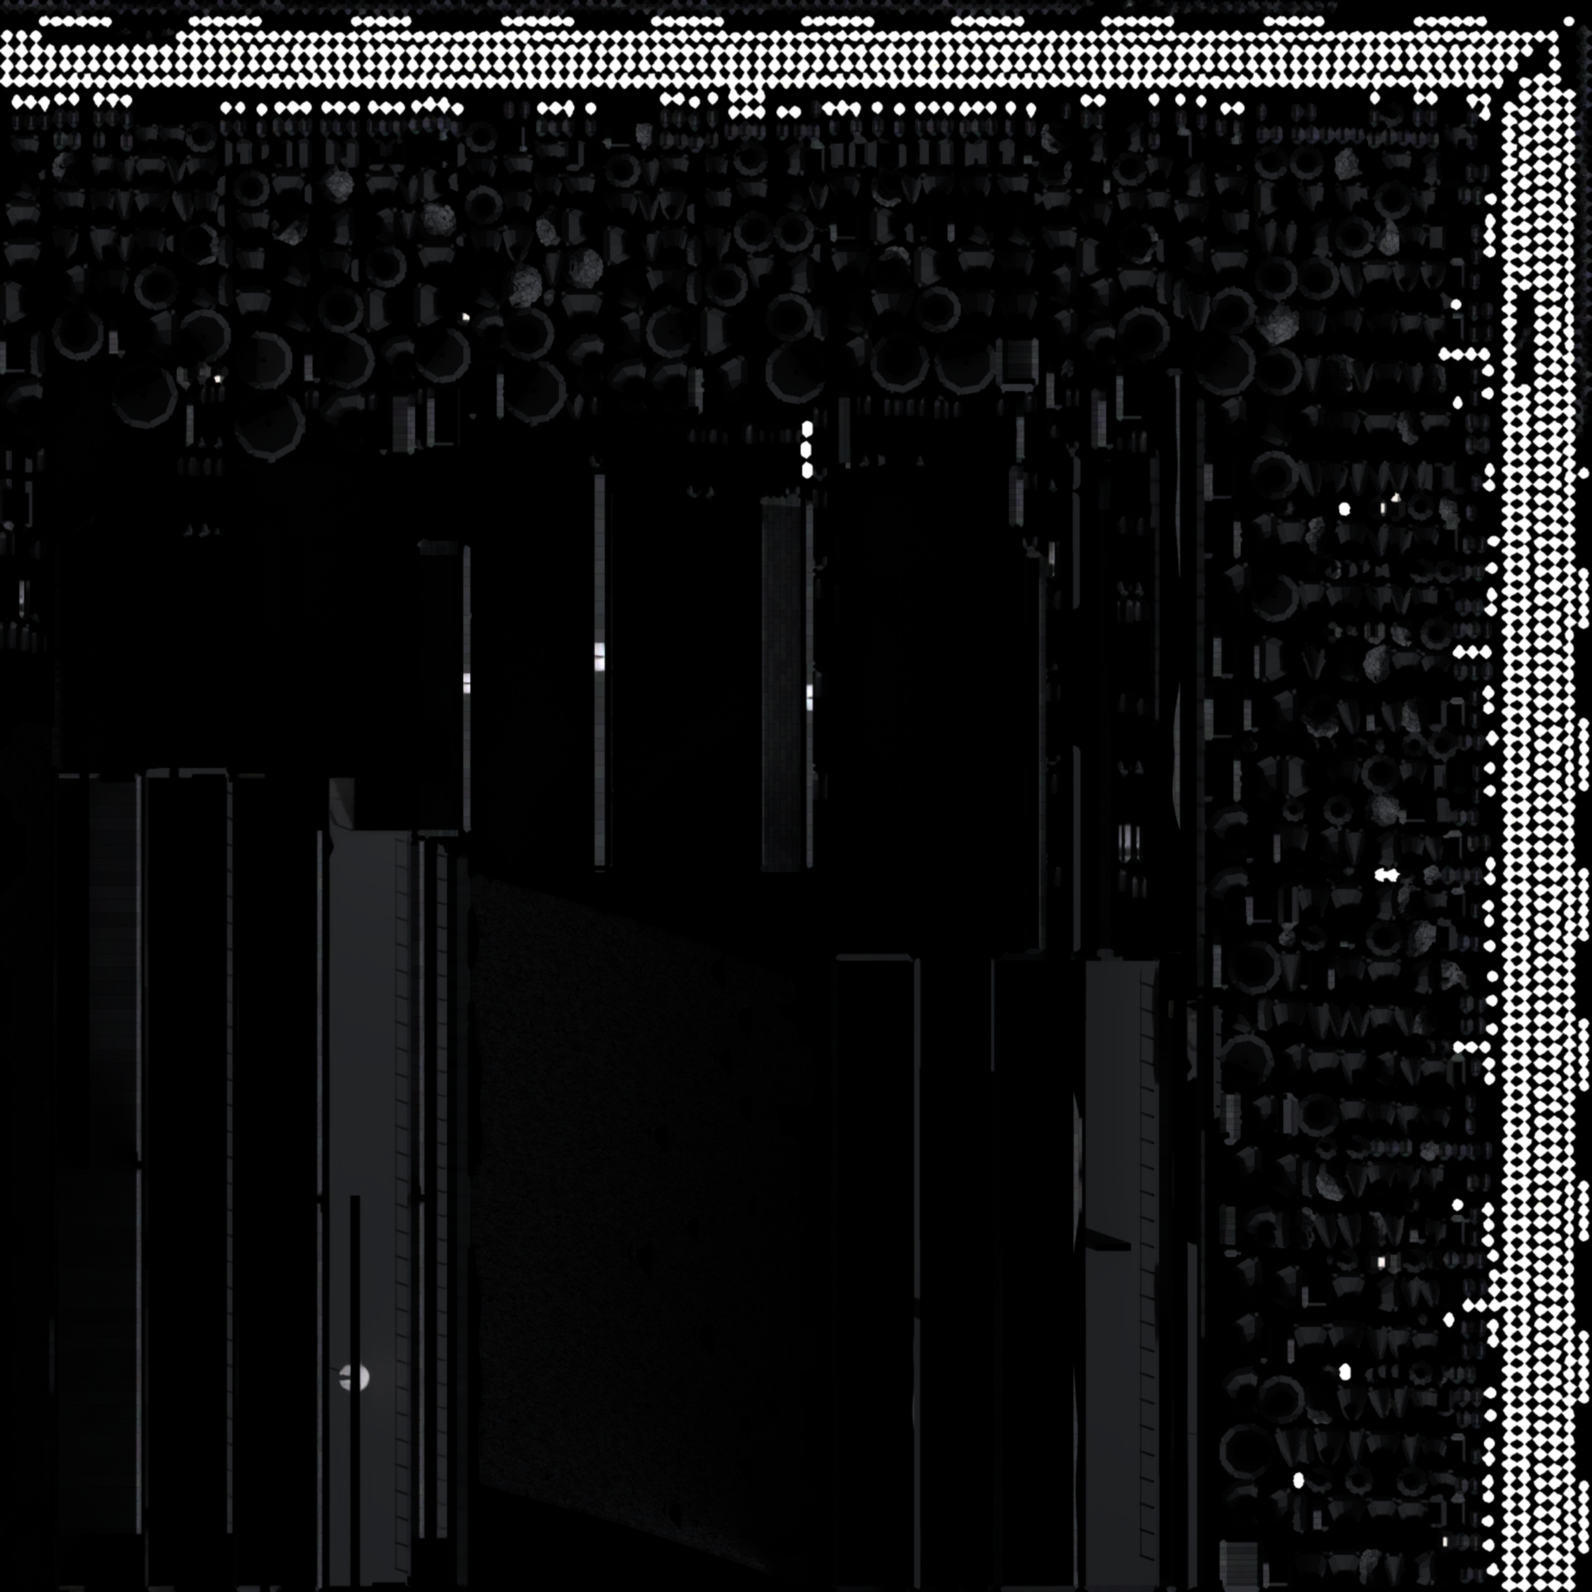
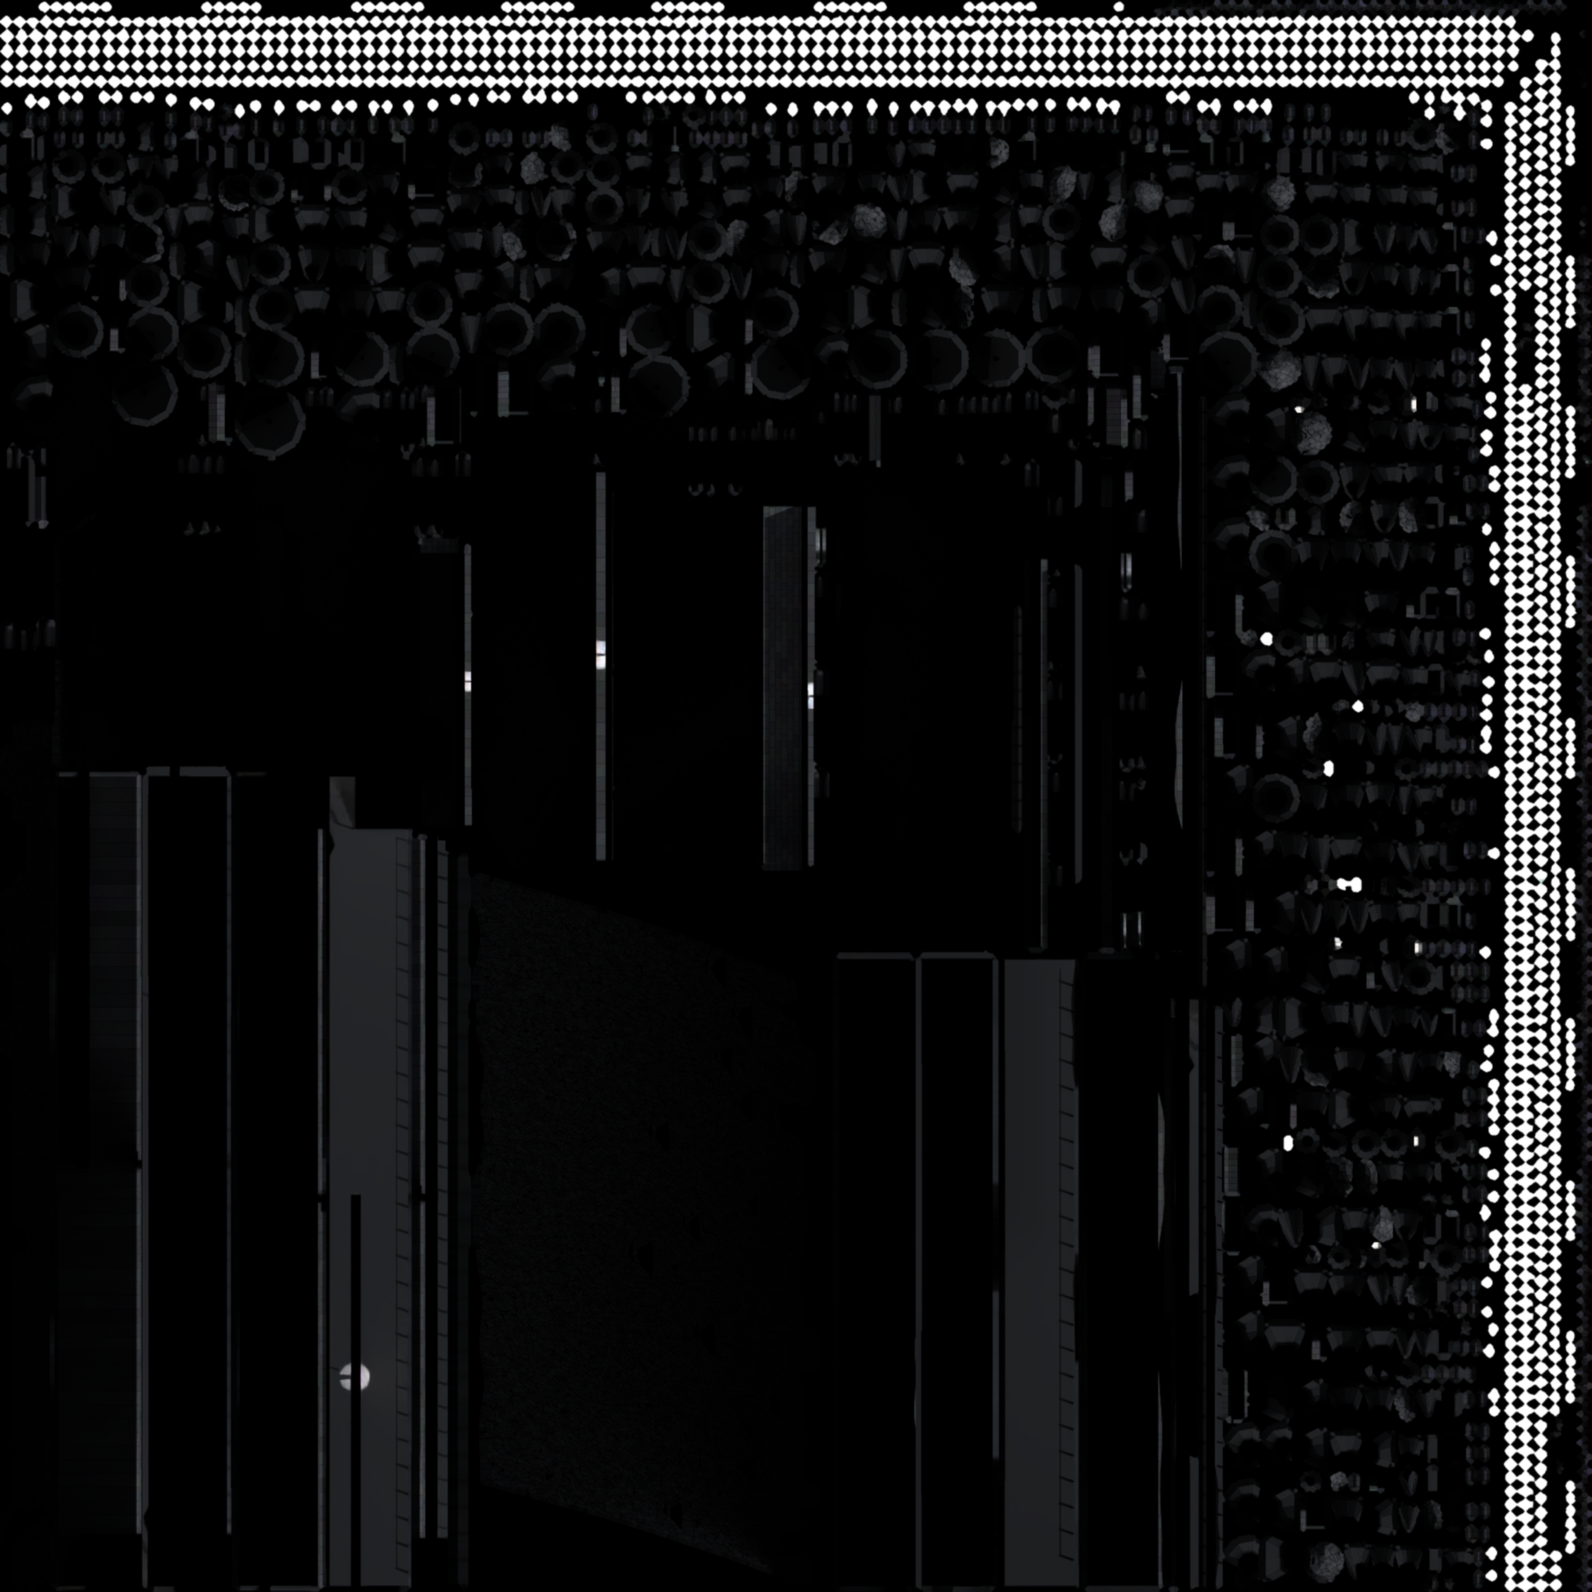
Chapter 6 glitch pass: moat edge, broken-stair bounds, fall safety, walk-ons between levels, chandelier twins, scenery out of the lane (plan + set)
Claude-Session: https://claude.ai/code/session_015hMH19Q3ffBpefttWAikbH

diff --git a/tools/blender/build_kessel_v3.py b/tools/blender/build_kessel_v3.py
@@ -71,6 +71,18 @@ def floor_slab(g, x0, x1, z, m, front=-1.6, back=4.0, thick=1.0):
         g.box(((x0 + x1) / 2, (front + back) / 2, z - thick / 2), (x1 - x0, back - front, thick), m)
 
 
+def open_steps(g, x0, z0, x1, z1, m, front=-1.3, back=0.6, n=None):
+    """An open flight (treads on a stringer, nothing under it): a floor runs on below it, and a man
+    walking there must not walk through a solid block."""
+    n = n or max(4, int(abs(z1 - z0) / 0.2))
+    for i in range(n):
+        u = (i + 1) / n
+        xa, xb = x0 + (x1 - x0) * i / n, x0 + (x1 - x0) * u
+        z = z0 + (z1 - z0) * u
+        g.box(((xa + xb) / 2, (front + back) / 2, z - 0.04), (abs(xb - xa) + 0.04, back - front, 0.08), m)
+    g.beam((x0, back + 0.06, z0), (x1, back + 0.06, z1), 0.08, 0.3, m)       # the stringer, behind the lane
+
+
 def steps(g, x0, z0, x1, z1, m, front=-1.4, back=2.0, n=None, base=None):
     """A flight of real steps from (x0, z0) to (x1, z1) (either direction)."""
     n = n or max(4, int(abs(z1 - z0) / 0.2))
@@ -114,7 +126,7 @@ def build_road(coll, M):
     g.beam((298, -3.0, 0.76), (343, -3.0, 0.76), 0.07, 0.05, M["iron"])
     # the retaining wall under the upper road (behind the lower one): cut stone, a drain, ivy dark
     g.box(((322 + 352) / 2, BACK + 0.4, 1.7), (30.0, 0.8, 3.4), M["stone"])
-    g.box((322.0, 0.0, 1.7), (0.6, 2.6, 3.4), M["stone"])                        # its end (the face you climb)
+    g.box((322.0, BACK + 0.4, 1.7), (0.6, 0.8, 3.4), M["stone"])                  # its end (behind the lane: the lower road runs on)
     floor_slab(g, 322.0, 384.0, 3.4, M["road"], front=-1.4, back=BACK + 2.4, thick=0.5)   # the upper road over it
     for x in range(323, 380, 2):
         g.box((x, -1.5, 3.8), (0.16, 0.16, 0.8), M["stone_dark"])
@@ -306,14 +318,14 @@ def build_court(coll, M):
     for px in (lx0 + 0.2, (lx0 + lx1) / 2, lx1 - 0.2):
         g.box((px, BACK + 1.4, (z + lz) / 2), (0.25, 0.25, lz - z), M["planks_wall"])
     g.box(((lx0 + lx1) / 2, BACK + 2.0, (z + lz) / 2 + 1.5), (lx1 - lx0, 0.3, lz - z + 3.0), M["planks_wall"])
-    steps(g, K.S[6][2], K.S[6][3], K.S[6][0], K.S[6][1], M["planks"], front=-1.3, back=BACK + 1.6, n=10)   # the roof's slope
+    open_steps(g, K.S[6][2], K.S[6][3], K.S[6][0], K.S[6][1], M["planks"], front=-1.3, back=0.8, n=10)   # the roof's slope (the yard runs on under it)
     for k in range(9):                                                     # the ladder at the loft's edge
         g.box((lx0 - 0.15, -0.6, z + 0.3 + k * 0.36), (0.1, 0.5, 0.05), M["planks_wall"])
     for s in (-1, 1):
         g.box((lx0 - 0.15, -0.6 + s * 0.25, (z + lz) / 2), (0.06, 0.06, lz - z + 0.4), M["planks_wall"])
     hx, _ = K.MARKS["hay_hoist"]
     g.beam((hx, -0.2, lz + 3.2), (hx, BACK + 2.0, lz + 3.2), 0.16, 0.16, M["planks_wall"])
-    g.box((hx, -0.2, lz + 1.5), (0.9, 0.7, 0.7), M["planks"])                # the bale on its rope
+    g.box((hx, -0.2, lz + 2.7), (0.9, 0.7, 0.7), M["planks"])                # the bale on its rope (above head height on the loft)
     # the cart, carts and barrels
     cx, _ = K.MARKS["cart"]
     g.box((cx, BACK + 0.8, z + 0.7), (2.8, 1.4, 0.5), M["planks_wall"])
@@ -399,28 +411,28 @@ def build_hall(coll, M):
     g.box(((x0 + x1) / 2, 0.8, top), (x1 - x0, 7.0, 0.6), M["planks"])                        # the roof beams' ceiling
     for bx in range(614, 662, 4):
         g.box((bx, 0.8, top - 0.4), (0.3, 7.0, 0.5), M["planks_wall"])
-    # the long table (a plan floor: you can get up on it), benches behind it
-    tx0, tx1, tz = K.P[12][0], K.P[12][1], K.P[12][2]
-    g.box(((tx0 + tx1) / 2, 0.0, tz - 0.06), (tx1 - tx0, 1.6, 0.12), M["planks"])
+    # the long table, its benches and the Warden's chair: behind the lane (nobody walks through them)
+    tx0, tx1, ty = 626.0, 640.0, BACK + 0.9
+    g.box(((tx0 + tx1) / 2, ty, z + 0.86), (tx1 - tx0, 1.4, 0.12), M["planks"])
     for lx in (tx0 + 0.6, (tx0 + tx1) / 2, tx1 - 0.6):
         for s in (-1, 1):
-            g.box((lx, s * 0.6, (z + tz) / 2), (0.14, 0.14, tz - z), M["planks_wall"])
-    g.box(((tx0 + tx1) / 2, 1.3, z + 0.45), (tx1 - tx0, 0.4, 0.1), M["planks"])
+            g.box((lx, ty + s * 0.55, z + 0.4), (0.14, 0.14, 0.8), M["planks_wall"])
+    g.box(((tx0 + tx1) / 2, ty + 1.0, z + 0.45), (tx1 - tx0, 0.4, 0.1), M["planks"])
+    g.box((tx1 + 0.8, ty, z + 0.8), (0.8, 0.8, 1.6), M["planks_wall"])
+    g.box((tx1 + 1.1, ty, z + 2.0), (0.2, 0.8, 1.6), M["planks_wall"])
     # the minstrels' gallery and its stair
-    mx0, mx1, mz = K.P[13][0], K.P[13][1], K.P[13][2]
+    mx0, mx1, mz = K.P[12][0], K.P[12][1], K.P[12][2]
     floor_slab(g, mx0, mx1, mz, M["planks"], front=-1.4, back=BACK + 4.0, thick=0.4)
     g.box(((mx0 + mx1) / 2, -1.45, mz + 0.5), (mx1 - mx0, 0.1, 1.0), M["planks_wall"])     # its balustrade (low, in front)
     for bx in range(int(mx0), int(mx1), 1):
         g.box((bx + 0.5, -1.45, mz + 0.5), (0.06, 0.06, 1.0), M["planks_wall"])
-    steps(g, K.S[7][0], K.S[7][1], K.S[7][2], K.S[7][3], M["planks"], front=-1.3, back=0.6, n=12)
+    open_steps(g, K.S[7][0], K.S[7][1], K.S[7][2], K.S[7][3], M["planks"], front=-1.3, back=0.6, n=12)   # open: the hall's floor runs on under it
     # the fireplace at the far end, big enough to stand in
     fx, _ = K.MARKS["fireplace"]
     g.box((fx, BACK + 3.6, z + 2.0), (3.6, 1.2, 4.0), M["stone_dark"])
     g.box((fx, BACK + 3.0, z + 0.5), (2.4, 0.4, 0.8), M["fire"])
     g.box((fx, BACK + 3.0, z + 4.2), (4.2, 1.6, 0.5), M["stone"])
-    # the Warden's chair at the table's head; banners
-    g.box((tx1 + 0.8, 0.9, z + 0.8), (0.8, 0.8, 1.6), M["planks_wall"])
-    g.box((tx1 + 1.1, 0.9, z + 2.0), (0.2, 0.8, 1.6), M["planks_wall"])
+    # banners
     for bx in (620.0, 636.0, 652.0):
         banner(g, bx, BACK + 3.8, z + 10.0, 4.0, M)
     return g.finish(coll)
@@ -451,7 +463,7 @@ def build_tower(coll, M):
         g.box((690.0 + math.cos(a) * 6.02, BACK + 5.0 + math.sin(a) * 6.02, 18.0 + (k % 3) * 4.0), (0.12, 0.06, 1.0), M["stone_dark"])
     for st in (K.S[8], K.S[9], K.S[10]):
         steps(g, st[0], st[1], st[2], st[3], M["steps"], front=-1.4, back=BACK + 0.6)
-    for i in (14, 15, 17):
+    for i in (13, 14, 16):
         x0, x1, z = K.P[i][0], K.P[i][1], K.P[i][2]
         floor_slab(g, x0, x1, z, M["steps"], back=BACK + 0.6, thick=1.0)
     # the gap: broken steps fallen away, their stubs, the drop
@@ -467,7 +479,7 @@ def build_tower(coll, M):
 
 def build_dome(coll, M):
     g = S.Group("KDome")
-    x0, x1, z = K.P[16][0], K.P[16][1], K.P[16][2]
+    x0, x1, z = K.P[15][0], K.P[15][1], K.P[15][2]
     floor_slab(g, x0, x1, z, M["planks"], back=BACK + 4.0, thick=1.0)
     # the dome (behind and over): copper ribs, the open slot to the storm
     cx = (x0 + x1) / 2
@@ -492,7 +504,7 @@ def build_telescope(coll, M):
     g.cyl((0, 0, 0.9), 0.35, 1.8, M["iron"], n=12, r2=0.5)                  # the pier
     g.cyl((0, 0, 2.0), 0.4, 4.2, M["copper"], rot=(0, 55, 0), n=20, r2=0.32)  # the tube, tilted to the slot
     ob = g.finish(coll)
-    ob.location = (K.MARKS["telescope"][0], 0.9, 30.4)
+    ob.location = (K.MARKS["telescope"][0], BACK + 0.8, 30.4)          # behind the lane
     return ob
 
 

diff --git a/Assets/Scripts/Level/StoryKessel.cs b/Assets/Scripts/Level/StoryKessel.cs
@@ -137,6 +137,19 @@ namespace ProjectInk
         void UpdateKessel()
         {
             if (kLevel < 0 || hero == null || hero.IsDead) return;
+            float floorY = KesselPlan.Levels[kLevel].y;
+            float lowest = floorY;
+            foreach (var p in KesselPlan.Platforms) if (p.x1 > kx0 && p.x0 < kx1 && p.x0 >= 280f) lowest = Mathf.Min(lowest, p.y);
+            foreach (var e in kMen)
+                if (e != null && e.Alive && e.transform.position.y < lowest - 4f)
+                    e.Kill(new HitInfo { damage = 999f, direction = 1, knockdown = true, attacker = hero });
+            if (hero.transform.position.y < lowest - 4f && !hero.CinematicLock)
+            {
+                // fallen out of the level (a missed jump, a shove off an edge): back on its floor, a little hurt
+                hero.TakeHit(new HitInfo { damage = 10f, direction = 1, knockback = 0f });
+                hero.CinePose(new Vector3(kx0 + 1.4f, FloorAt(kx0 + 1.4f, floorY), 0f));
+                hero.CineRelease();
+            }
             if (kMen.Count > 0 && Time.unscaledTime > kBarkAt)
             {
                 kBarkAt = Time.unscaledTime + Random.Range(7f, 12f);
@@ -429,6 +442,8 @@ namespace ProjectInk
             KMan(EnemyType.Swordsman, 515f, 22.4f);
             KMan(EnemyType.Brawler, 486f, 22.4f, false, 1);
             yield return KFight();
+            SetArena(kx0, KesselPlan.Levels[5].x0 + 1.2f);
+            yield return PlayerWalk(KesselPlan.Levels[5].x0 + 0.6f, kx0, 1.8f, Application.isMobilePlatform ? "HOLD TO GO DOWN THE TOWER" : "HOLD  D  TO GO DOWN THE TOWER");
         }
 
         void UpdateGusts()
@@ -453,6 +468,7 @@ namespace ProjectInk
             var s = KMan(EnemyType.Swordsman, 526f, 15.4f);
             if (s != null) { s.arenaMinX = KesselPlan.Levels[5].x0 - 1f; s.arenaMaxX = KesselPlan.Levels[6].x0 + 3f; }
             yield return KFight();
+            yield return PlayerWalk(KesselPlan.Levels[6].x0 + 1.2f, KesselPlan.Levels[5].x0 - 1f, 1.8f, Application.isMobilePlatform ? "HOLD TO GO OUT" : "HOLD  D  TO GO OUT");
         }
 
         // ================================================================ L7 the courtyard
@@ -573,6 +589,8 @@ namespace ProjectInk
             float wait = 0f;
             while (SetPiece.All.Exists(p => p != null && p.label == "THE PHOTOGRAPH" && p.usable) && wait < 20f) { wait += Time.deltaTime; yield return null; }
             while (memoryPlaying) yield return null;
+            SetArena(kx0, KesselPlan.Levels[8].x0 + 2f);
+            yield return PlayerWalk(KesselPlan.Levels[8].x0 + 1.2f, kx0, 1.8f, Application.isMobilePlatform ? "HOLD TO GO ON" : "HOLD  D  TO GO ON");
         }
 
         bool memoryPlaying;
@@ -666,7 +684,7 @@ namespace ProjectInk
             warden.DriverPhase = 2;
             warden.arenaMinX = kx0; warden.arenaMaxX = kx1;
             warden.Puppet();
-            warden.PuppetPose(new Vector3(641.6f, 15.4f, 0.9f));
+            warden.PuppetPose(new Vector3(641.6f, 15.4f, 3.0f));            // in his chair at the table's head (behind the lane)
             warden.SetFacing(-1);
             warden.PuppetPlay("idle", 0f);
             wardenStage = 0;
@@ -746,7 +764,9 @@ namespace ProjectInk
             // first, from below: the man and the child on the gallery, lit by a strike (the old tower's shots)
             if (!cut) { yield return TheTower(); }
             yield return BeginLevel(9, true, 659.4f);
+            SetArena(kx0, 682.2f);                                   // this side of the broken steps until the jump
             KMan(EnemyType.Swordsman, 673.5f, 21.4f); KMan(EnemyType.Swordsman, 668f, 18.4f);
+            foreach (var m in kMen) if (m != null) m.arenaMaxX = 682.2f;
             yield return KFight(() => hero.transform.position.x > 679f);
             // the broken stair: only the lightning shows the gap
             SetArena(kx0, 682.2f);

diff --git a/tools/blender/kessel_plan.py b/tools/blender/kessel_plan.py
@@ -25,12 +25,11 @@ P = [
     (548.0, 560.0, 18.6, True, "hay_loft"),         # 9  L7 the stable's loft
     (584.0, 612.0, 15.4, False, "gallery"),         # 10 L8 Voss's gallery
     (612.0, 660.0, 15.4, False, "great_hall"),      # 11 L9 the great hall
-    (626.0, 640.0, 16.3, True, "hall_table"),       # 12 L9 the long table
-    (644.0, 658.0, 19.6, True, "minstrel_gallery"),  # 13 L9 the minstrels' gallery
-    (672.0, 676.0, 21.4, False, "tower_landing"),   # 14 L10 a landing on the tower stair
-    (684.0, 688.0, 24.4, False, "tower_ledge"),     # 15 L10 beyond the broken step
-    (698.0, 716.0, 30.4, False, "observatory"),     # 16 L11 the observatory
-    (681.4, 682.4, 24.4, False, "broken_end"),      # 17 L10 the last whole step before the gap
+    (644.0, 658.0, 19.6, True, "minstrel_gallery"),  # 12 L9 the minstrels' gallery (the long table stands behind the lane: no walking through it)
+    (672.0, 676.0, 21.4, False, "tower_landing"),   # 13 L10 a landing on the tower stair
+    (684.0, 688.0, 24.4, False, "tower_ledge"),     # 14 L10 beyond the broken step
+    (698.0, 716.0, 30.4, False, "observatory"),     # 15 L11 the observatory
+    (681.4, 682.4, 24.4, False, "broken_end"),      # 16 L10 the last whole step before the gap
     # the old fortress set, kept: the cliff road and the keep's level (the arrival, the walk-out) and the
     # roof terrace (the duel with Voss)
     (0.0, 44.0, 0.0, False, "old_road"),            # 18
@@ -47,10 +46,10 @@ S = [
     (472.0, 15.4, 480.0, 22.4, 6, 7),      # L4 → L5 the passage's stair to the wall
     (528.0, 15.4, 520.0, 22.4, 8, 7),      # L6 the wall tower's stair (down to the courtyard)
     (566.0, 15.4, 560.0, 18.6, 8, 9),      # L7 the stable roof (slid down)
-    (640.0, 15.4, 644.0, 19.6, 11, 13),    # L9 the gallery stair
-    (660.0, 15.4, 672.0, 21.4, 11, 14),    # L10 the tower stair, first flight
-    (676.0, 21.4, 681.4, 24.4, 14, 17),    # L10 the second flight, to the last whole step before the gap
-    (688.0, 24.4, 698.0, 30.4, 15, 16),    # L10 the last flight to the observatory
+    (640.0, 15.4, 644.0, 19.6, 11, 12),    # L9 the gallery stair
+    (660.0, 15.4, 672.0, 21.4, 11, 13),    # L10 the tower stair, first flight
+    (676.0, 21.4, 681.4, 24.4, 13, 16),    # L10 the second flight, to the last whole step before the gap
+    (688.0, 24.4, 698.0, 30.4, 14, 15),    # L10 the last flight to the observatory
 ]
 
 # ---------------------------------------------------------------- ledges (x, y, dir): hang and pull up
@@ -63,7 +62,7 @@ L = [
 LEVELS = [
     ("THE SWITCHBACK ROAD", 300.0, 380.0, 0.0),
     ("THE GREAT STAIR", 380.0, 420.0, 3.4),
-    ("THE BARBICAN", 420.0, 446.0, 15.4),
+    ("THE BARBICAN", 420.0, 443.8, 15.4),       # stops at the moat's edge
     ("THE GATE PASSAGE", 448.0, 472.0, 15.4),
     ("THE WALL WALK", 472.0, 520.0, 22.4),
     ("THE WALL TOWER", 520.0, 528.0, 22.4),

diff --git a/Assets/Scripts/Level/KesselPlan.cs b/Assets/Scripts/Level/KesselPlan.cs
@@ -21,7 +21,6 @@ namespace ProjectInk
             new Platform(548.0f, 560.0f, 18.6f, true),   // hay_loft
             new Platform(584.0f, 612.0f, 15.4f, false),   // gallery
             new Platform(612.0f, 660.0f, 15.4f, false),   // great_hall
-            new Platform(626.0f, 640.0f, 16.3f, true),   // hall_table
             new Platform(644.0f, 658.0f, 19.6f, true),   // minstrel_gallery
             new Platform(672.0f, 676.0f, 21.4f, false),   // tower_landing
             new Platform(684.0f, 688.0f, 24.4f, false),   // tower_ledge
@@ -41,10 +40,10 @@ namespace ProjectInk
             new Stair(472.0f, 15.4f, 480.0f, 22.4f, 6, 7),
             new Stair(528.0f, 15.4f, 520.0f, 22.4f, 8, 7),
             new Stair(566.0f, 15.4f, 560.0f, 18.6f, 8, 9),
-            new Stair(640.0f, 15.4f, 644.0f, 19.6f, 11, 13),
-            new Stair(660.0f, 15.4f, 672.0f, 21.4f, 11, 14),
-            new Stair(676.0f, 21.4f, 681.4f, 24.4f, 14, 17),
-            new Stair(688.0f, 24.4f, 698.0f, 30.4f, 15, 16),
+            new Stair(640.0f, 15.4f, 644.0f, 19.6f, 11, 12),
+            new Stair(660.0f, 15.4f, 672.0f, 21.4f, 11, 13),
+            new Stair(676.0f, 21.4f, 681.4f, 24.4f, 13, 16),
+            new Stair(688.0f, 24.4f, 698.0f, 30.4f, 14, 15),
         };
 
         public static readonly Ledge[] Ledges =
@@ -59,7 +58,7 @@ namespace ProjectInk
         {
             ("THE SWITCHBACK ROAD", 300.0f, 380.0f, 0.0f),
             ("THE GREAT STAIR", 380.0f, 420.0f, 3.4f),
-            ("THE BARBICAN", 420.0f, 446.0f, 15.4f),
+            ("THE BARBICAN", 420.0f, 443.8f, 15.4f),
             ("THE GATE PASSAGE", 448.0f, 472.0f, 15.4f),
             ("THE WALL WALK", 472.0f, 520.0f, 22.4f),
             ("THE WALL TOWER", 520.0f, 528.0f, 22.4f),

diff --git a/Assets/Scripts/Level/StoryFortress.cs b/Assets/Scripts/Level/StoryFortress.cs
@@ -506,6 +506,17 @@ namespace ProjectInk
         /// <summary>A chandelier cut loose over him: its shadow on the floor first, then it comes down.</summary>
         void DropChandelier(float x)
         {
+            // Kessel Hill's hall: the hanging chandelier nearest him is the one that comes down (no twin left hanging)
+            if (hallFloorY > 10f)
+            {
+                Transform near = null;
+                foreach (var n in new[] { "KChandelier1", "KChandelier2", "KChandelier3" })
+                {
+                    var t = Find(n);
+                    if (t != null && t.gameObject.activeSelf && (near == null || Mathf.Abs(t.position.x - x) < Mathf.Abs(near.position.x - x))) near = t;
+                }
+                if (near != null) { x = near.position.x; near.gameObject.SetActive(false); }
+            }
             var root = new GameObject("FallingChandelier").transform;
             root.position = new Vector3(x, hallFloorY + 7.4f, 0f);
             var ink = new Material(Shader.Find("Unlit/Color")) { color = new Color(0.05f, 0.05f, 0.06f) };

diff --git a/Assets/Scripts/Editor/PrototypeBuilder.cs b/Assets/Scripts/Editor/PrototypeBuilder.cs
@@ -20,7 +20,7 @@ namespace ProjectInk.EditorTools
         public const string ScenePath = "Assets/Scenes/Prototype.unity";
         const string ApkPath = "build/Android/StickWick.apk";
         /// <summary>Bump whenever the generated scene changes; open editors rebuild it on pull.</summary>
-        public const int SceneVersion = 56;
+        public const int SceneVersion = 57;
         public const string VersionFile = "Assets/Generated/scene_version.txt";
 
         const string HallScenePath = "Assets/Scenes/ClassicHall.unity";

diff --git a/DEVLOG.md b/DEVLOG.md
@@ -1768,3 +1768,14 @@ Then the roof, as built.
 - A landed swing can be cut short into the next.
 - It still wears out (14 swings).
 - The reads chain off it: the jab folds a man (then the overhead), the shins buckle his leg.
+
+## Chapter 6 glitch pass
+- **The barbican:** the level now stops at the moat's edge; men knocked into the moat had made the fight unfinishable.
+- **The tower stair:** the fight stays this side of the broken steps until the jump.
+- **Falls:** anyone who falls out of a level is dealt with. A man is finished off; the hero is put back on the floor with a small hit.
+- **Between levels:** walks replace the pops (wall walk → wall tower → courtyard, gallery → hall).
+- **The chandeliers:** each one that falls takes the nearest hanging one with it (no twin left hanging).
+- **The set:**
+  - The hall's table, benches and the Warden's chair are behind the lane (the table is no longer a floor).
+  - The gallery stair and the stable roof are open treads over the floor below.
+  - The telescope is behind the lane; the retaining wall's end is out of the road; the hay bale is above head height.
